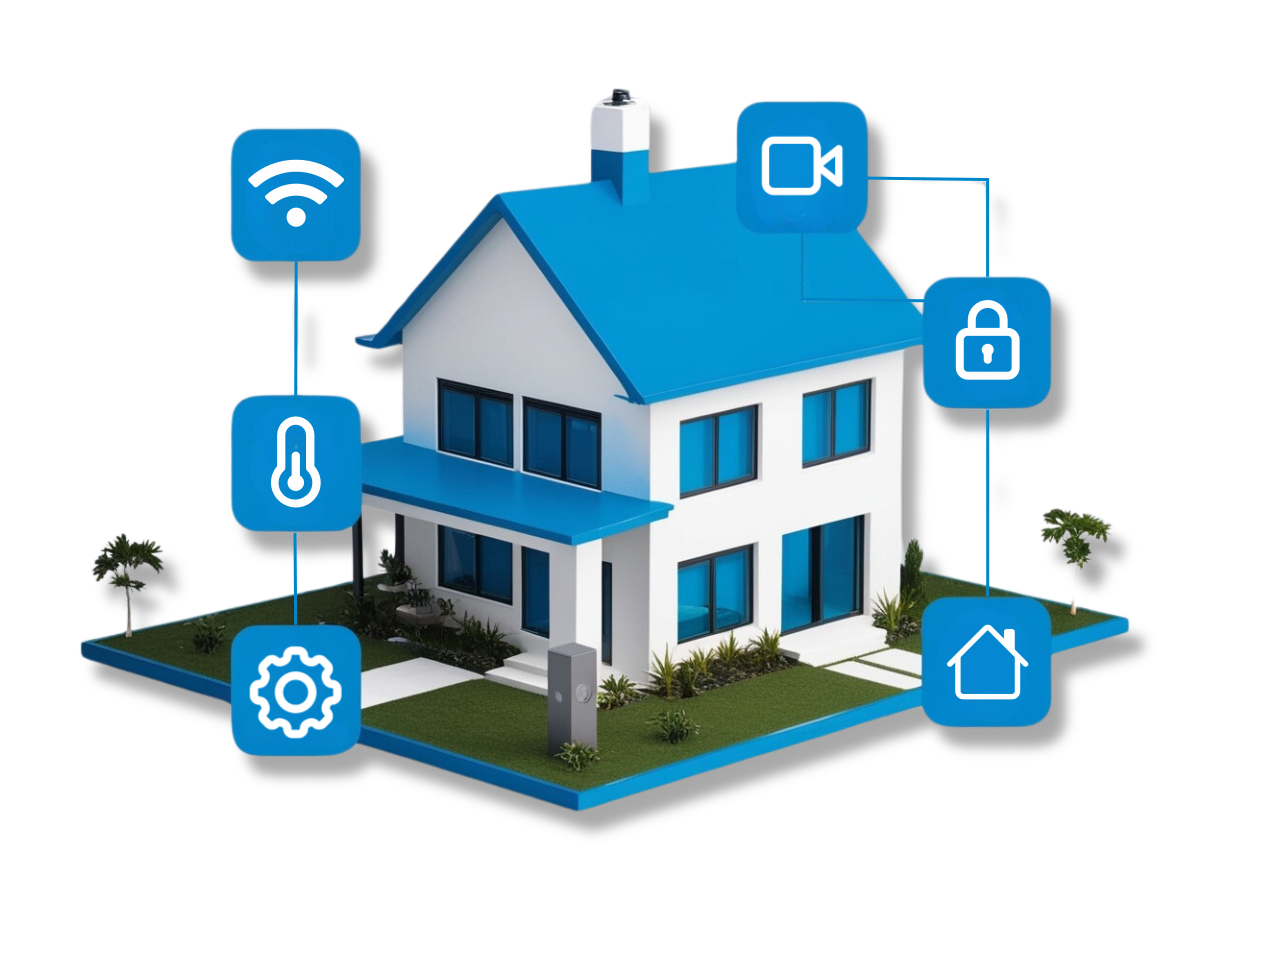
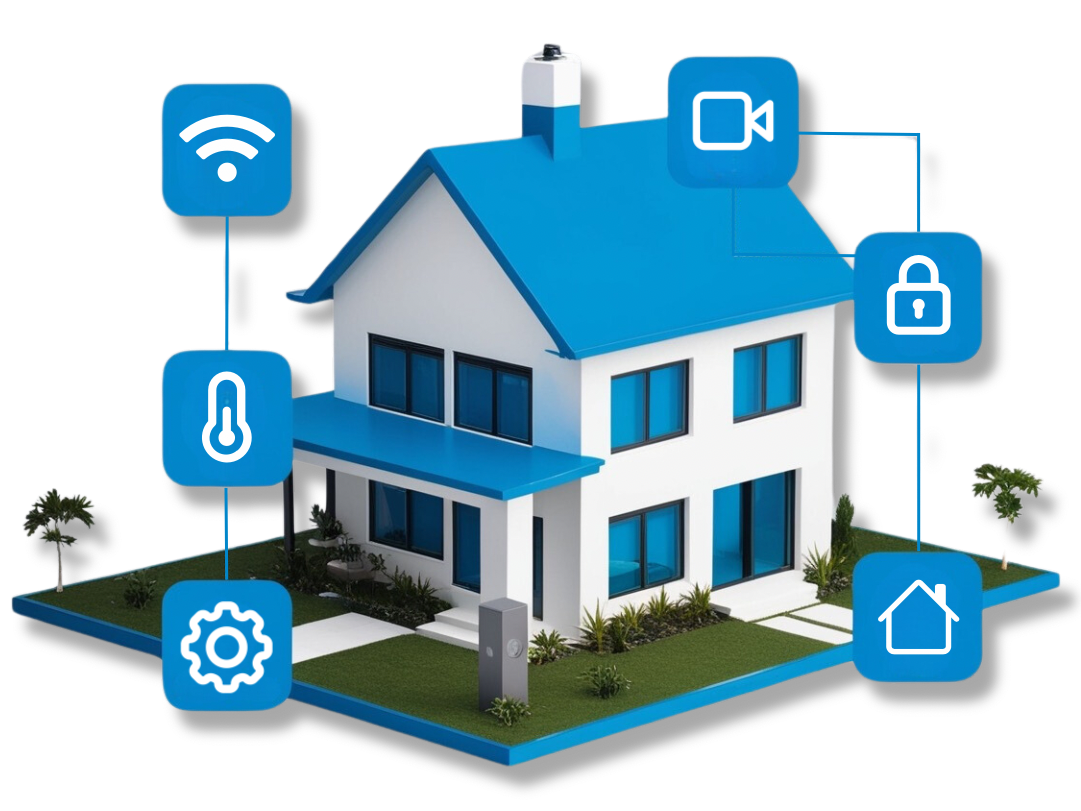
refactor: Update home page layout and styles

diff --git a/src/app/page.tsx b/src/app/page.tsx
@@ -16,11 +16,11 @@ export default function Home() {
         'min-h-dvh bg-background flex flex-col items-center justify-center gap-12')
       }
     >
-      <div className="w-full mt-6 lg:mt-0 flex flex-col md:flex-row items-center justify-center">
-        <div className="md:w-1/3 text-center md:text-start">
+      <div className="w-3/4 mt-6 flex flex-col md:flex-row items-center justify-center">
+        <div className="md:w-1/2 text-center md:text-start">
           <h1 className="text-6xl font-medium">Automação</h1>
           <h2 className="text-3xl">no tempo certo</h2>
-          <p className="text-md mx-auto my-6 md:mx-0  w-4/5">
+          <p className="text-md mx-auto my-6 md:mx-0  w-3/4">
             A Tecnojund oferece soluções de automação de ponta com equipamentos
             de alta qualidade, como Arduino e Microchip. Nossa experiência
             assegura integração perfeita e automação eficiente para residências
@@ -36,6 +36,7 @@ export default function Home() {
           width="1280"
           height="960"
           className="md:w-1/2"
+          about="Generated by Leonardo.ai"
         ></Image>
       </div>
       <div className="w-full flex flex-col gap-6 justify-center items-center">
